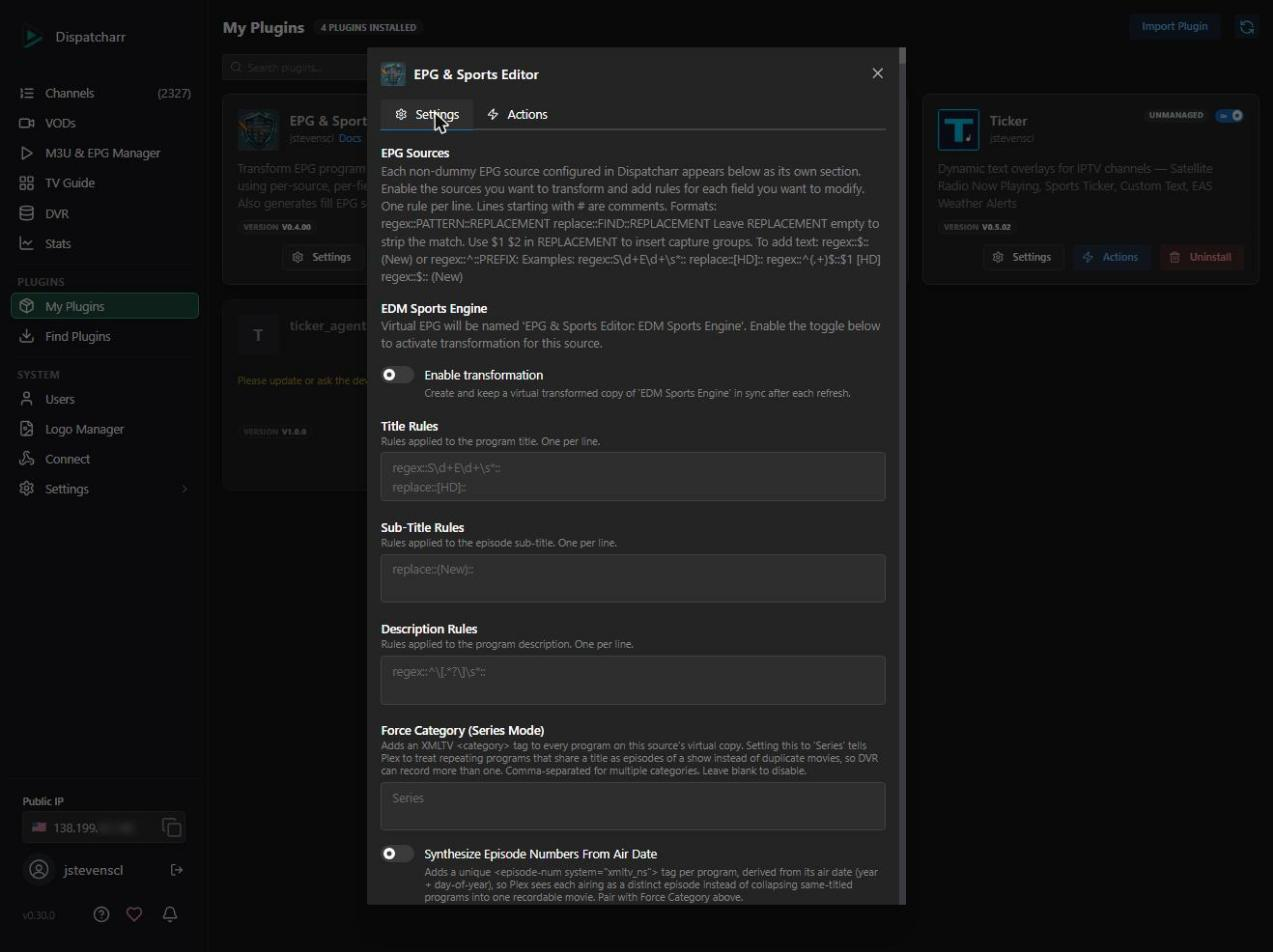
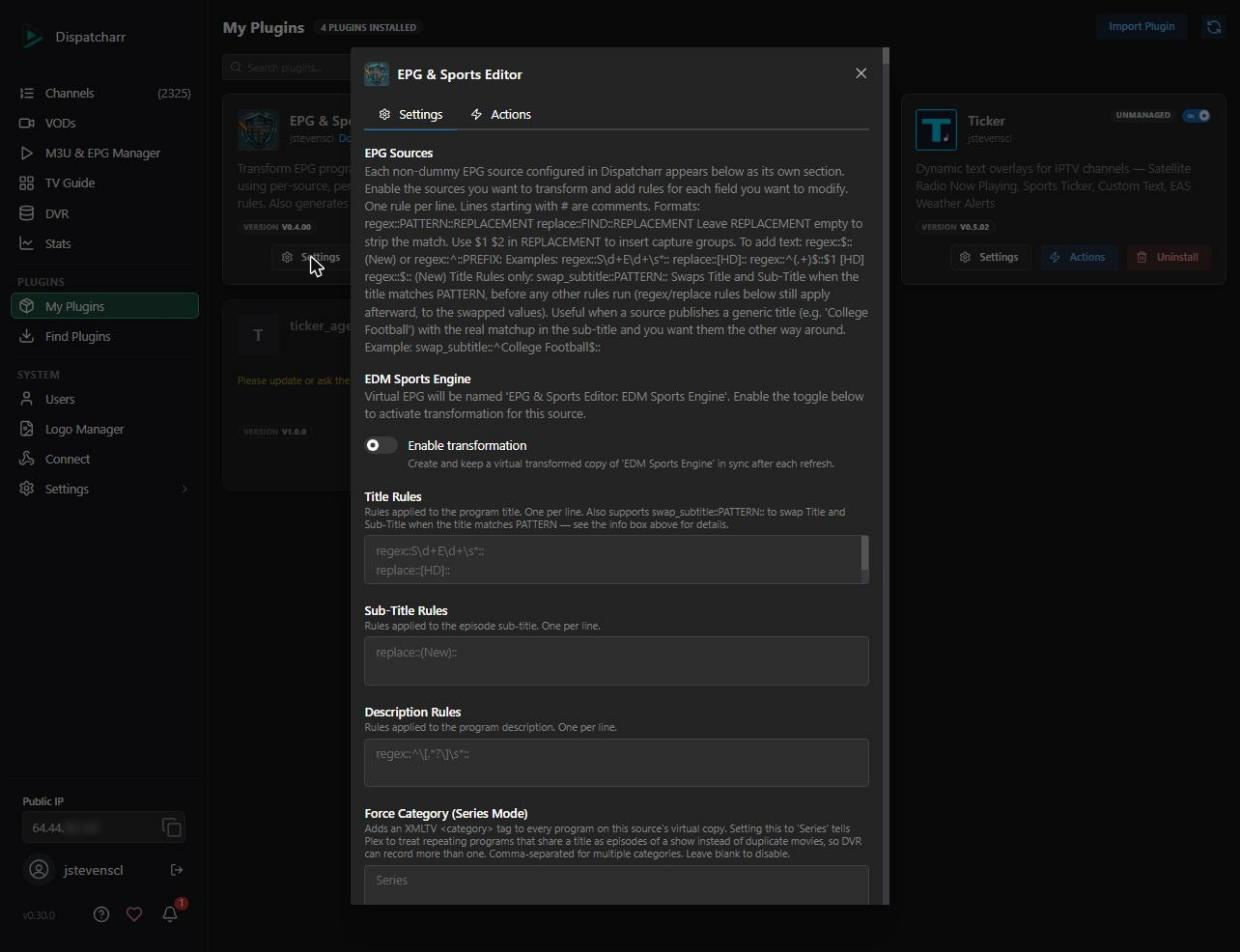
Add swap_subtitle rule for Title/Sub-Title swapping (fixes #29)
Per-field rules previously ran fully independently, so a Title regex
could never see a program's Sub-Title text. Adds a swap_subtitle::PATTERN::
rule kind, valid only in Title Rules, that swaps Title and Sub-Title when
the title matches PATTERN, before the normal regex/replace rules run.
Fixes providers publishing a generic title (e.g. "College Football")
with the real matchup in the sub-title.

diff --git a/plugin.py b/plugin.py
@@ -844,6 +844,14 @@ class Plugin:
                     "below as its own section. Enable the sources you want to "
                     "transform and add rules for each field you want to modify.\n\n"
                     + _RULE_FORMAT_HELP
+                    + "\n\nTitle Rules only:\n"
+                    "  swap_subtitle::PATTERN::\n"
+                    "Swaps Title and Sub-Title when the title matches PATTERN, before "
+                    "any other rules run (regex/replace rules below still apply "
+                    "afterward, to the swapped values). Useful when a source publishes "
+                    "a generic title (e.g. 'College Football') with the real matchup "
+                    "in the sub-title and you want them the other way around.\n"
+                    "  Example: swap_subtitle::^College Football$::"
                 ),
             }
         ]
@@ -875,8 +883,13 @@ class Plugin:
                         "label": "Title Rules",
                         "type": "text",
                         "default": "",
-                        "placeholder": "regex::S\\d+E\\d+\\s*::\nreplace::[HD]::",
-                        "help_text": "Rules applied to the program title. One per line.",
+                        "placeholder": "regex::S\\d+E\\d+\\s*::\nreplace::[HD]::\nswap_subtitle::^College Football$::",
+                        "help_text": (
+                            "Rules applied to the program title. One per line. "
+                            "Also supports swap_subtitle::PATTERN:: to swap Title and "
+                            "Sub-Title when the title matches PATTERN — see the info "
+                            "box above for details."
+                        ),
                     },
                     {
                         "id": f"src_{sid}_subtitle_rules",
@@ -1156,6 +1169,15 @@ class Plugin:
                     LOGGER.warning(f"EPG & Sports Editor: bad regex '{arg1}': {e}")
             elif kind in ("replace", "find_replace"):
                 rules.append({"type": "replace", "find": arg1, "replacement": arg2})
+            elif kind == "swap_subtitle":
+                try:
+                    rules.append({
+                        "type": "swap_subtitle",
+                        "pattern": re.compile(arg1),
+                        "raw": arg1,
+                    })
+                except re.error as e:
+                    LOGGER.warning(f"EPG & Sports Editor: bad regex '{arg1}': {e}")
             else:
                 LOGGER.warning(f"EPG & Sports Editor: unknown rule type '{kind}' — skipping")
         return rules
@@ -1166,8 +1188,10 @@ class Plugin:
         for rule in rules:
             if rule["type"] == "regex":
                 value = rule["pattern"].sub(rule["replacement"], value)
-            else:
+            elif rule["type"] == "replace":
                 value = value.replace(rule["find"], rule["replacement"])
+            # swap_subtitle needs both title and sub_title at once — handled by
+            # the caller (_do_transform_source) before per-field rules run.
         return value.strip() if value else value
 
     # ── Sports Editor ────────────────────────────────────────────────────
@@ -2063,8 +2087,10 @@ class Plugin:
                 for r in rules:
                     if r["type"] == "regex":
                         descs.append(f"regex({r['raw']!r} → {r['replacement']!r})")
-                    else:
+                    elif r["type"] == "replace":
                         descs.append(f"replace({r['find']!r} → {r['replacement']!r})")
+                    else:
+                        descs.append(f"swap_subtitle({r['raw']!r})")
                 lines.append(f"    {label}: " + ", ".join(descs))
         force_category = (settings.get(f"src_{source_id}_force_category", "") or "").strip()
         if force_category:
@@ -2235,14 +2261,26 @@ class Plugin:
                     if synth_episode_num:
                         custom_props["season"] = prog.start_time.year
                         custom_props["episode"] = prog.start_time.timetuple().tm_yday
+
+                    # swap_subtitle runs before the normal per-field rules below, so
+                    # those still get a chance to clean up the swapped values. Only
+                    # swap when there's a non-empty sub_title to swap in, otherwise
+                    # the title would go blank.
+                    title_src, subtitle_src = prog.title, prog.sub_title
+                    if prog.sub_title and prog.title and any(
+                        r["type"] == "swap_subtitle" and r["pattern"].search(prog.title)
+                        for r in field_rules["title"]
+                    ):
+                        title_src, subtitle_src = prog.sub_title, prog.title
+
                     batch.append(ProgramData(
                         epg=ve,
                         start_time=prog.start_time,
                         end_time=prog.end_time,
-                        title=self._apply_rules(prog.title, field_rules["title"]) or prog.title,
+                        title=self._apply_rules(title_src, field_rules["title"]) or title_src,
                         sub_title=(
-                            self._apply_rules(prog.sub_title, field_rules["sub_title"])
-                            if prog.sub_title is not None else None
+                            self._apply_rules(subtitle_src, field_rules["sub_title"])
+                            if subtitle_src is not None else None
                         ),
                         description=(
                             self._apply_rules(prog.description, field_rules["description"])

diff --git a/README.md b/README.md
@@ -203,6 +203,21 @@ replace::FIND::REPLACEMENT
 - Literal text match (not a regex)
 - Leave `REPLACEMENT` empty to strip the match
 
+### Swap title/sub-title rule (Title Rules only)
+```
+swap_subtitle::PATTERN::
+```
+- `PATTERN` is a Python regex matched against the program title
+- When it matches, the program's Title and Sub-Title are swapped before any other rules run — so regex/replace rules below it still apply, to the swapped values
+- Only valid in **Title Rules**; a plain `regex::`/`replace::` rule can't see across fields, so this is the way to move text between Title and Sub-Title
+- The swap is skipped if Sub-Title is empty, so Title never goes blank
+
+Useful when a source publishes a generic title (e.g. `College Football`) with the actual matchup in the sub-title, and you want them the other way around:
+```
+swap_subtitle::^College Football$::
+```
+Turns `Title: College Football` / `Sub-Title: Ohio State at Michigan` into `Title: Ohio State at Michigan` / `Sub-Title: College Football`.
+
 ### Examples
 
 Strip episode codes from titles:
@@ -261,7 +276,7 @@ Each EPG source in Dispatcharr gets its own section. Per-source settings:
 | Setting | Description |
 |---|---|
 | **Enable transformation** | Toggle transformation on/off for this source |
-| **Title Rules** | Rules applied to program titles |
+| **Title Rules** | Rules applied to program titles. Also the only field that accepts `swap_subtitle::PATTERN::` to swap Title and Sub-Title — see Rule Format above. |
 | **Sub-Title Rules** | Rules applied to episode sub-titles |
 | **Description Rules** | Rules applied to program descriptions |
 | **Force Category (Series Mode)** | Adds an XMLTV `<category>` tag to every program on this source's virtual copy. Setting this to `Series` tells Plex to treat repeating programs that share a title as episodes of a show instead of duplicate movies, so DVR can record more than one. Comma-separated for multiple categories. Leave blank to disable. |
